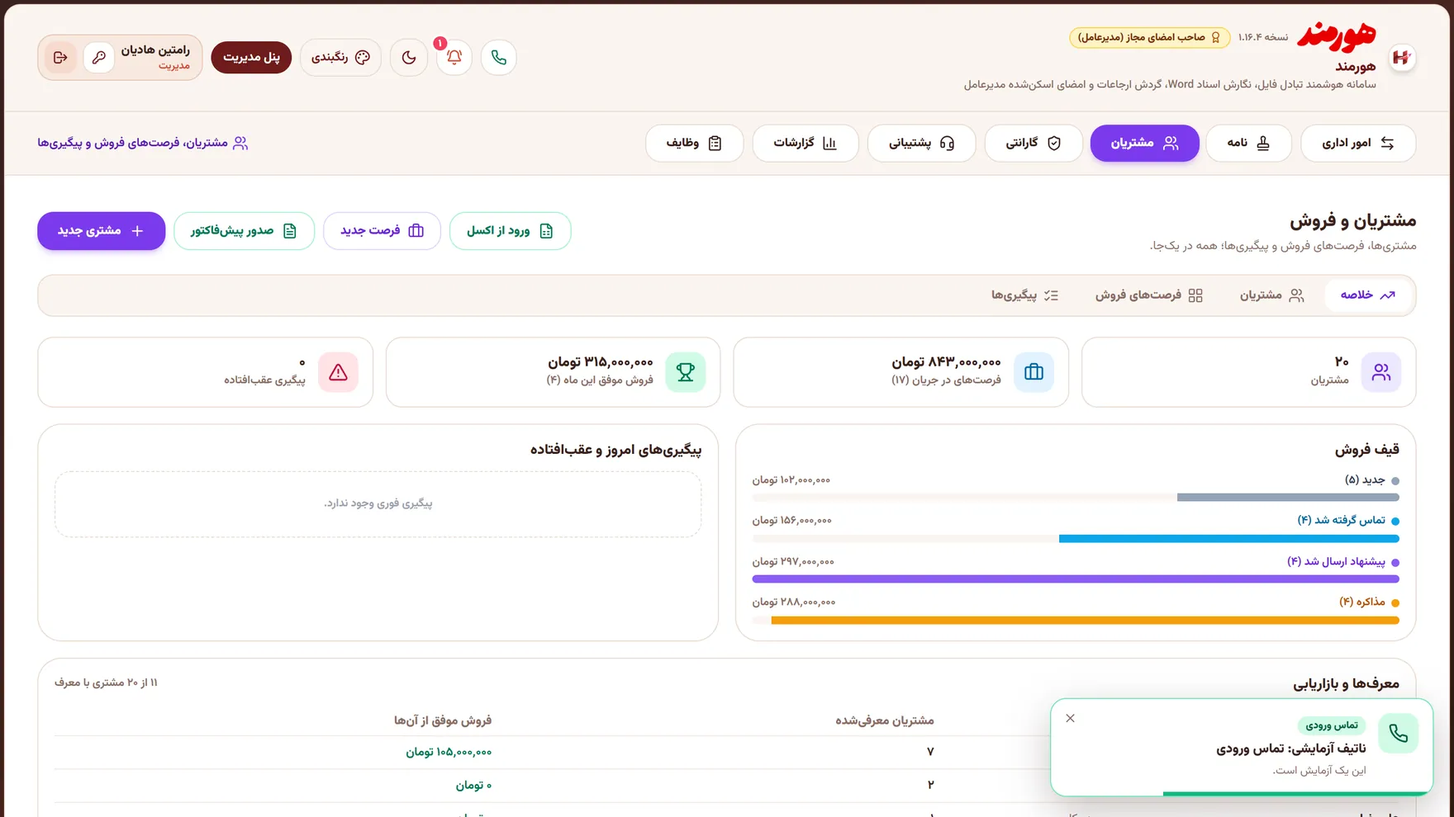
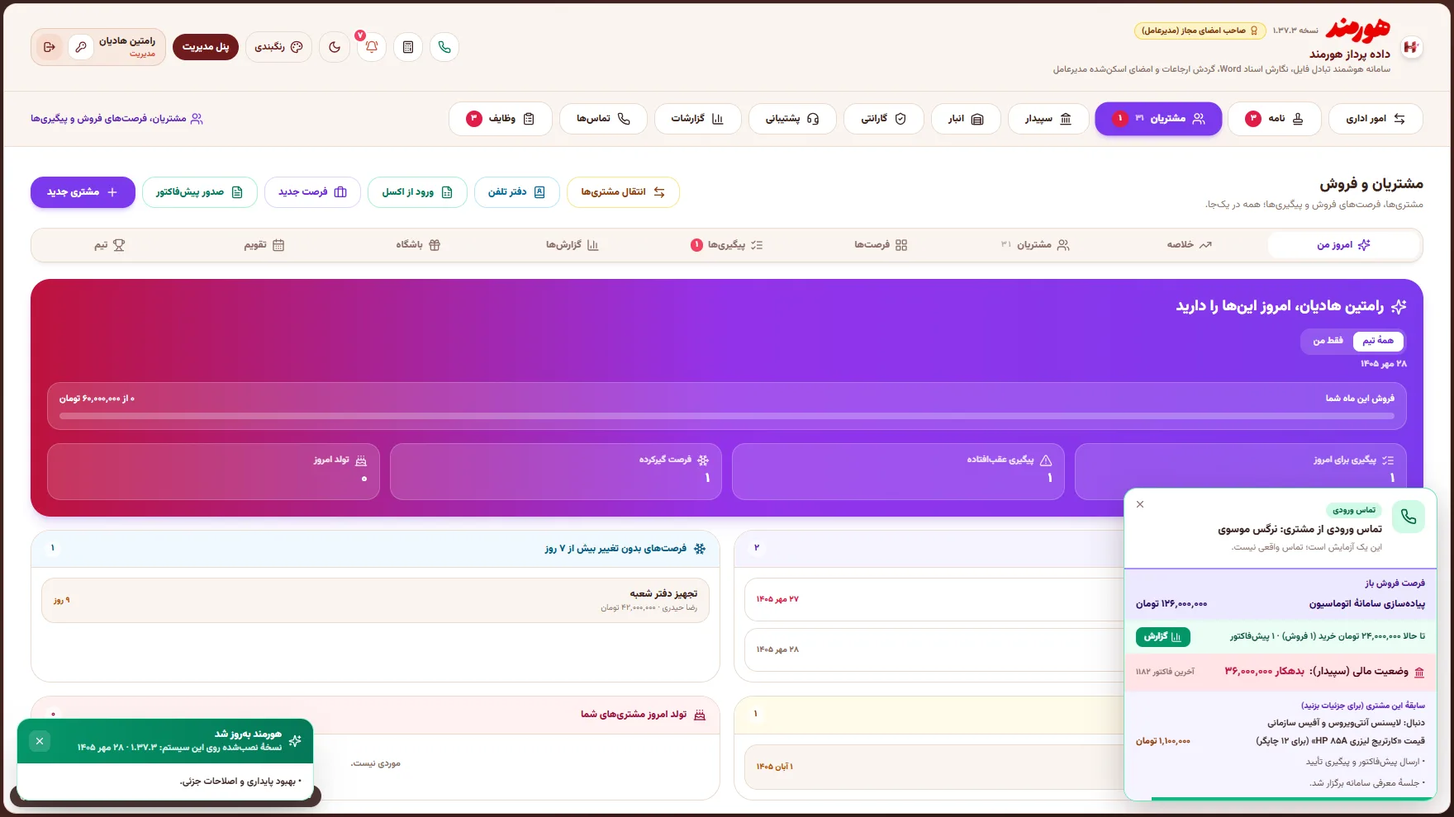
Add warehouse and Sepidar cards, richer call pop-up, FAQ

diff --git a/styles.css b/styles.css
@@ -111,7 +111,7 @@ button { font: inherit; color: inherit; background: none; border: 0; cursor: poi
 @keyframes bob { to { transform: translateY(-12px); } }
 
 /* four dark cards with a purple glow rising from the bottom */
-.dcards { display: grid; grid-template-columns: repeat(4, 1fr); gap: 18px; margin-top: 10px; }
+.dcards { display: grid; grid-template-columns: repeat(3, 1fr); gap: 18px; margin-top: 10px; }
 .dcard { position: relative; display: flex; flex-direction: column; min-height: 560px; padding: 22px; border-radius: 30px; overflow: hidden; background: linear-gradient(180deg, rgba(60, 40, 130, .38), rgba(18, 14, 34, .95) 55%); box-shadow: inset 0 0 0 1px rgba(255, 255, 255, .09); transition: transform .5s var(--out); }
 .dcard::after { content: ''; position: absolute; inset: auto -20% -30% -20%; height: 55%; background: radial-gradient(60% 70% at 50% 100%, rgba(139, 92, 246, .75), transparent 70%); z-index: 0; pointer-events: none; }
 .dcard > * { position: relative; z-index: 1; }

diff --git a/hoormand.php b/hoormand.php
@@ -24,7 +24,7 @@ if ($https) { header('Strict-Transport-Security: max-age=31536000; includeSubDom
 <meta charset="utf-8">
 <meta name="viewport" content="width=device-width, initial-scale=1, viewport-fit=cover">
 <title>هورمند | نرمافزار اتوماسیون اداری، CRM و مدیریت مشتریان فارسی</title>
-<meta name="description" content="هورمند سامانهٔ فارسی اتوماسیون اداری و بازرگانی: نامهنگاری و ارجاع، مدیریت مشتریان (CRM)، فرصت فروش و پیشفاکتور، گارانتی، پشتیبانی، پاپآپ تماس تلفنی و پیامک خودکار. نصب روی سرور خودتان؛ نمایش آزمایشی.">
+<meta name="description" content="هورمند سامانهٔ فارسی اتوماسیون اداری و بازرگانی: نامهنگاری و ارجاع، مدیریت مشتریان (CRM)، فرصت فروش و پیشفاکتور، گارانتی، پشتیبانی، پاپآپ تماس تلفنی، انبار، اتصال به سپیدار و پیامک خودکار. نصب روی سرور خودتان؛ نمایش آزمایشی.">
 <meta name="theme-color" content="#0c0b14">
 <link rel="icon" href="img/mark.png">
 <meta name="robots" content="index, follow, max-image-preview:large, max-snippet:-1">
@@ -37,21 +37,21 @@ if ($https) { header('Strict-Transport-Security: max-age=31536000; includeSubDom
 <meta property="og:locale" content="fa_IR">
 <meta property="og:site_name" content="هورمند">
 <meta property="og:title" content="هورمند | نرمافزار اتوماسیون اداری، CRM و مدیریت مشتریان فارسی">
-<meta property="og:description" content="هورمند سامانهٔ فارسی اتوماسیون اداری و بازرگانی: نامهنگاری و ارجاع، مدیریت مشتریان (CRM)، فرصت فروش و پیشفاکتور، گارانتی، پشتیبانی، پاپآپ تماس تلفنی و پیامک خودکار. نصب روی سرور خودتان؛ نمایش آزمایشی.">
+<meta property="og:description" content="هورمند سامانهٔ فارسی اتوماسیون اداری و بازرگانی: نامهنگاری و ارجاع، مدیریت مشتریان (CRM)، فرصت فروش و پیشفاکتور، گارانتی، پشتیبانی، پاپآپ تماس تلفنی، انبار، اتصال به سپیدار و پیامک خودکار. نصب روی سرور خودتان؛ نمایش آزمایشی.">
 <meta property="og:url" content="https://ramtinai.com/">
 <meta property="og:image" content="https://ramtinai.com/img/og.png">
 <meta property="og:image:width" content="1200">
 <meta property="og:image:height" content="630">
 <meta name="twitter:card" content="summary_large_image">
 <meta name="twitter:title" content="هورمند | نرمافزار اتوماسیون اداری، CRM و مدیریت مشتریان فارسی">
-<meta name="twitter:description" content="هورمند سامانهٔ فارسی اتوماسیون اداری و بازرگانی: نامهنگاری و ارجاع، مدیریت مشتریان (CRM)، فرصت فروش و پیشفاکتور، گارانتی، پشتیبانی، پاپآپ تماس تلفنی و پیامک خودکار. نصب روی سرور خودتان؛ نمایش آزمایشی.">
+<meta name="twitter:description" content="هورمند سامانهٔ فارسی اتوماسیون اداری و بازرگانی: نامهنگاری و ارجاع، مدیریت مشتریان (CRM)، فرصت فروش و پیشفاکتور، گارانتی، پشتیبانی، پاپآپ تماس تلفنی، انبار، اتصال به سپیدار و پیامک خودکار. نصب روی سرور خودتان؛ نمایش آزمایشی.">
 <meta name="twitter:image" content="https://ramtinai.com/img/og.png">
 <link rel="apple-touch-icon" href="img/mark.png">
-<script type="application/ld+json">[{"@context": "https://schema.org", "@type": "SoftwareApplication", "name": "هورمند", "alternateName": ["Hoormand", "سامانه اتوماسیون اداری هورمند"], "applicationCategory": "BusinessApplication", "operatingSystem": "Web, Linux, Windows", "inLanguage": "fa-IR", "description": "هورمند سامانهٔ فارسی اتوماسیون اداری و بازرگانی: نامهنگاری و ارجاع، مدیریت مشتریان (CRM)، فرصت فروش و پیشفاکتور، گارانتی، پشتیبانی، پاپآپ تماس تلفنی و پیامک خودکار. نصب روی سرور خودتان؛ نمایش آزمایشی.", "url": "https://ramtinai.com/", "image": "https://ramtinai.com/img/og.png", "featureList": ["نامهنگاری اداری با شمارهگذاری و ارجاع", "مدیریت مشتریان (CRM) و قیف فروش", "صدور پیشفاکتور با تأیید مدیرعامل", "سامانه گارانتی و گواهی چاپی", "پشتیبانی مشتریان با پلن و مهلت پاسخ", "پاپآپ تماس تلفنی (ایزابل)", "پیامک خودکار به مشتری", "تقویم شمسی و رابط کاملاً فارسی"]}, {"@context": "https://schema.org", "@type": "Organization", "name": "هورمند", "url": "https://ramtinai.com/", "logo": "https://ramtinai.com/img/mark.png", "contactPoint": {"@type": "ContactPoint", "telephone": "+98-31-33920", "contactType": "sales", "availableLanguage": "fa"}}, {"@context": "https://schema.org", "@type": "WebSite", "name": "هورمند", "url": "https://ramtinai.com/", "inLanguage": "fa-IR"}, {"@context": "https://schema.org", "@type": "FAQPage", "mainEntity": [{"@type": "Question", "name": "اطلاعات شرکت ما کجا نگهداری میشود؟", "acceptedAnswer": {"@type": "Answer", "text": "روی سرور خودتان. سامانه روی سرور شما نصب میشود و هر شب از پایگاه داده نسخهٔ پشتیبان میگیرد."}}, {"@type": "Question", "name": "روی گوشی هم کار میکند؟", "acceptedAnswer": {"@type": "Answer", "text": "بله. صفحهها برای گوشی هم طراحی شدهاند، با منوی پایین صفحه و اعلان موبایل."}}, {"@type": "Question", "name": "به تلفن شرکت وصل میشود؟", "acceptedAnswer": {"@type": "Answer", "text": "بله، به تلفنخانهٔ ایزابل وصل میشود. وقتی مشتری زنگ بزند، نام و پروندهٔ او روی صفحهٔ همکار میآید و تماسها در سابقه میمانند."}}, {"@type": "Question", "name": "پیامک به مشتری چطور فرستاده میشود؟", "acceptedAnswer": {"@type": "Answer", "text": "با پنل کاوهنگار. مدیر مشخص میکند کدام پیامها (مثل خوشآمد یا صدور پیشفاکتور) خودکار برای مشتری برود و نام شرکت یا آدرس سایت زیر هر پیامک نوشته میشود."}}, {"@type": "Question", "name": "هر همکار همهچیز را میبیند؟", "acceptedAnswer": {"@type": "Answer", "text": "نه. مدیر برای هر کاربر تعیین میکند کدام منوها را ببیند؛ مثلاً حذف مشتری فقط با مدیر سیستم است."}}, {"@type": "Question", "name": "نمایش آزمایشی میخواهم.", "acceptedAnswer": {"@type": "Answer", "text": "از دکمهٔ «نمایش آزمایشی» وارد نسخهٔ نمونه شوید؛ همهچیز با اطلاعات نمونه است و هر ساعت به حالت اول برمیگردد."}}]}]</script>
+<script type="application/ld+json">[{"@context": "https://schema.org", "@type": "SoftwareApplication", "name": "هورمند", "alternateName": ["Hoormand", "سامانه اتوماسیون اداری هورمند"], "applicationCategory": "BusinessApplication", "operatingSystem": "Web, Linux, Windows", "inLanguage": "fa-IR", "description": "هورمند سامانهٔ فارسی اتوماسیون اداری و بازرگانی: نامهنگاری و ارجاع، مدیریت مشتریان (CRM)، فرصت فروش و پیشفاکتور، گارانتی، پشتیبانی، پاپآپ تماس تلفنی، انبار، اتصال به سپیدار و پیامک خودکار. نصب روی سرور خودتان؛ نمایش آزمایشی.", "url": "https://ramtinai.com/", "image": "https://ramtinai.com/img/og.png", "featureList": ["نامهنگاری اداری با شمارهگذاری و ارجاع", "مدیریت مشتریان (CRM) و قیف فروش", "صدور پیشفاکتور با تأیید مدیرعامل", "سامانه گارانتی و گواهی چاپی", "پشتیبانی مشتریان با پلن و مهلت پاسخ", "پاپآپ تماس تلفنی (ایزابل)", "پیامک خودکار به مشتری", "انبار و موجودی کالا با گروهبندی", "اتصال به حسابداری سپیدار", "تقویم شمسی و رابط کاملاً فارسی"]}, {"@context": "https://schema.org", "@type": "Organization", "name": "هورمند", "url": "https://ramtinai.com/", "logo": "https://ramtinai.com/img/mark.png", "contactPoint": {"@type": "ContactPoint", "telephone": "+98-31-33920", "contactType": "sales", "availableLanguage": "fa"}}, {"@context": "https://schema.org", "@type": "WebSite", "name": "هورمند", "url": "https://ramtinai.com/", "inLanguage": "fa-IR"}, {"@context": "https://schema.org", "@type": "FAQPage", "mainEntity": [{"@type": "Question", "name": "اطلاعات شرکت ما کجا نگهداری میشود؟", "acceptedAnswer": {"@type": "Answer", "text": "روی سرور خودتان. سامانه روی سرور شما نصب میشود و هر شب از پایگاه داده نسخهٔ پشتیبان میگیرد."}}, {"@type": "Question", "name": "روی گوشی هم کار میکند؟", "acceptedAnswer": {"@type": "Answer", "text": "بله. صفحهها برای گوشی هم طراحی شدهاند، با منوی پایین صفحه و اعلان موبایل."}}, {"@type": "Question", "name": "به تلفن شرکت وصل میشود؟", "acceptedAnswer": {"@type": "Answer", "text": "بله، به تلفنخانهٔ ایزابل وصل میشود. وقتی مشتری زنگ بزند، نام و پروندهٔ او روی صفحهٔ همکار میآید و تماسها در سابقه میمانند."}}, {"@type": "Question", "name": "پیامک به مشتری چطور فرستاده میشود؟", "acceptedAnswer": {"@type": "Answer", "text": "با پنل کاوهنگار. مدیر مشخص میکند کدام پیامها (مثل خوشآمد یا صدور پیشفاکتور) خودکار برای مشتری برود و نام شرکت یا آدرس سایت زیر هر پیامک نوشته میشود."}}, {"@type": "Question", "name": "هر همکار همهچیز را میبیند؟", "acceptedAnswer": {"@type": "Answer", "text": "نه. مدیر برای هر کاربر تعیین میکند کدام منوها را ببیند؛ مثلاً حذف مشتری فقط با مدیر سیستم است."}}, {"@type": "Question", "name": "به نرمافزار حسابداری سپیدار وصل میشود؟", "acceptedAnswer": {"@type": "Answer", "text": "بله. یک ابزار کوچک روی رایانهٔ حسابداری، مشتریها، کالاها و موجودی را از سپیدار به هورمند میآورد و پیشفاکتور را به سپیدار میفرستد."}}, {"@type": "Question", "name": "انبار هم دارد؟", "acceptedAnswer": {"@type": "Answer", "text": "بله. کالا و خدمات، گروهبندی، رسید و حواله، انتقال بین انبارها و حداقل موجودی با هشدار."}}, {"@type": "Question", "name": "نمایش آزمایشی میخواهم.", "acceptedAnswer": {"@type": "Answer", "text": "از دکمهٔ «نمایش آزمایشی» وارد نسخهٔ نمونه شوید؛ همهچیز با اطلاعات نمونه است و هر ساعت به حالت اول برمیگردد."}}]}]</script>
 <noscript><style>.rv{opacity:1!important;transform:none!important}</style></noscript>
 
 <link rel="preload" href="fonts/Vazirmatn-Bold.woff2" as="font" type="font/woff2" crossorigin="anonymous">
-<link rel="stylesheet" href="styles.css?v=202610091334">
+<link rel="stylesheet" href="styles.css?v=202610200956">
 </head>
 <body>
 
@@ -136,7 +136,7 @@ if ($https) { header('Strict-Transport-Security: max-age=31536000; includeSubDom
         <span class="tagp"><i class="ring"></i>تلفن و پیامک</span>
         <div class="dimg call"><img src="img/call.webp" alt="پاپآپ تماس ورودی مشتری در سامانه هورمند" loading="lazy" width="1760" height="990"></div>
         <h3>مشتری زنگ زد، پروندهاش همان لحظه باز شد.</h3>
-        <ul><li>پاپآپ تماس با نام مشتری</li><li>سابقهٔ همهٔ تماسها</li><li>پیامک خودکار با نام شرکت شما</li></ul>
+        <ul><li>پاپآپ همان لحظهٔ زنگ خوردن، با نام مشتری</li><li>فرصت فروش باز، بدهی و آخرین یادداشتها</li><li>ثبت همهٔ تماسها، حتی داخلیهای فالومی</li></ul>
       </article>
       <article class="dcard rv" style="--i:2">
         <span class="tagp"><i class="ring"></i>نامه و فایل</span>
@@ -150,8 +150,20 @@ if ($https) { header('Strict-Transport-Security: max-age=31536000; includeSubDom
         <h3>هر درخواست مهلت دارد و هیچکدام فراموش نمیشود.</h3>
         <ul><li>پلن و اشتراک پشتیبانی</li><li>گواهی گارانتی با مهر و امضا</li><li>صفحهٔ ورود مشتری و دستیار هوشمند</li></ul>
       </article>
+      <article class="dcard rv" style="--i:4">
+        <span class="tagp"><i class="ring"></i>انبار</span>
+        <div class="dimg"><img src="img/warehouse.webp" alt="انبار و موجودی کالا در سامانهٔ هورمند با گروهبندی" loading="lazy" width="1760" height="990"></div>
+        <h3>موجودی هر کالا، با گروه و حداقل هشدار.</h3>
+        <ul><li>گروههای سلسلهمراتبی و دسترسی هر همکار به گروهها</li><li>رسید، حواله، انتقال و انبارگردانی</li><li>کالا و خدمات؛ انبار دارای موجودی حذف نمیشود</li></ul>
+      </article>
+      <article class="dcard rv" style="--i:5">
+        <span class="tagp"><i class="ring"></i>اتصال به سپیدار</span>
+        <div class="dimg"><img src="img/sepidar.webp" alt="اتصال هورمند به حسابداری سپیدار: پیشفاکتور، فاکتور و دریافت" loading="lazy" width="1760" height="990"></div>
+        <h3>مانده حساب مشتری را همان لحظهٔ تماس ببینید.</h3>
+        <ul><li>مشتری، کالا و موجودی از سپیدار میآید</li><li>پیشفاکتور را از هورمند به سپیدار بفرستید</li><li>دسترسی جدا برای هر بخش مالی</li></ul>
+      </article>
     </div>
-    <div class="dots" id="dots" aria-hidden="true"><i></i><i></i><i></i><i></i></div>
+    <div class="dots" id="dots" aria-hidden="true"><i></i><i></i><i></i><i></i><i></i><i></i></div>
   </div>
 </section>
 
@@ -177,7 +189,7 @@ if ($https) { header('Strict-Transport-Security: max-age=31536000; includeSubDom
       <ul class="col good">
         <li class="rv" style="--i:0"><i>✓</i>همهٔ فایلها و نامهها یکجا، با شمارهٔ خودکار</li>
         <li class="rv" style="--i:1"><i>✓</i>هر مشتری یک پرونده با تمام تاریخچهاش</li>
-        <li class="rv" style="--i:2"><i>✓</i>پاپآپ تماس و سابقهٔ کامل تماسها</li>
+        <li class="rv" style="--i:2"><i>✓</i>پاپآپ تماس با بدهی، فرصت فروش و سابقهٔ مشتری</li>
         <li class="rv" style="--i:3"><i>✓</i>وظیفه با مسئول، مهلت و اعلان</li>
         <li class="rv" style="--i:4"><i>✓</i>گارانتی و پشتیبانی با مهلت پاسخ مشخص</li>
       </ul>
@@ -316,6 +328,8 @@ if ($https) { header('Strict-Transport-Security: max-age=31536000; includeSubDom
       <details class="rv" style="--i:3"><summary>پیامک به مشتری چطور فرستاده میشود؟</summary><div><p>با پنل کاوهنگار. مدیر مشخص میکند کدام پیامها (مثل خوشآمد یا صدور پیشفاکتور) خودکار برای مشتری برود و نام شرکت یا آدرس سایت زیر هر پیامک نوشته میشود.</p></div></details>
       <details class="rv" style="--i:4"><summary>هر همکار همهچیز را میبیند؟</summary><div><p>نه. مدیر برای هر کاربر تعیین میکند کدام منوها را ببیند؛ مثلاً حذف مشتری فقط با مدیر سیستم است.</p></div></details>
       <details class="rv" style="--i:5"><summary>نمایش آزمایشی میخواهم.</summary><div><p>از دکمهٔ «نمایش آزمایشی» وارد نسخهٔ نمونه شوید؛ همهچیز با اطلاعات نمونه است و هر ساعت به حالت اول برمیگردد.</p></div></details>
+      <details class="rv" style="--i:6"><summary>به نرمافزار حسابداری سپیدار وصل میشود؟</summary><div><p>بله. یک ابزار کوچک روی رایانهٔ حسابداری مشتریها، کالاها و موجودی را از سپیدار به هورمند میآورد و پیشفاکتور را به سپیدار میفرستد. اگر سپیدار ندارید، انبار و مشتریان بهتنهایی در خود هورمند کار میکنند.</p></div></details>
+      <details class="rv" style="--i:7"><summary>انبار هم دارد؟</summary><div><p>بله. کالا و خدمات، گروهبندی چندسطحی، رسید و حواله، انتقال بین انبارها و حداقل موجودی با هشدار. مدیر تعیین میکند هر همکار کدام گروهها و کدام ستونها (مثل مبلغ) را ببیند.</p></div></details>
     </div>
   </div>
 </section>
@@ -340,6 +354,6 @@ if ($https) { header('Strict-Transport-Security: max-age=31536000; includeSubDom
 </footer>
 
 <script nonce="<?= $nonce ?>">window.HOORMAND_CONTACT = <?= json_encode($contact, JSON_UNESCAPED_UNICODE | JSON_HEX_TAG | JSON_HEX_AMP | JSON_HEX_APOS | JSON_HEX_QUOT) ?>;</script>
-<script src="app.js?v=202610091334" defer></script>
+<script src="app.js?v=202610200956" defer></script>
 </body>
 </html>
